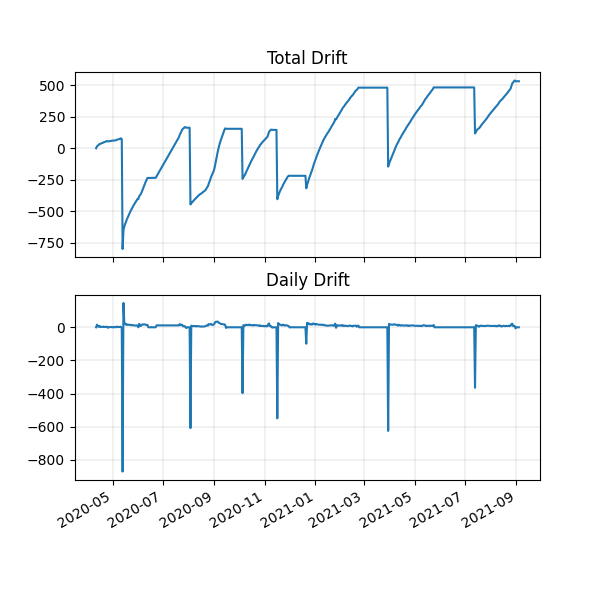
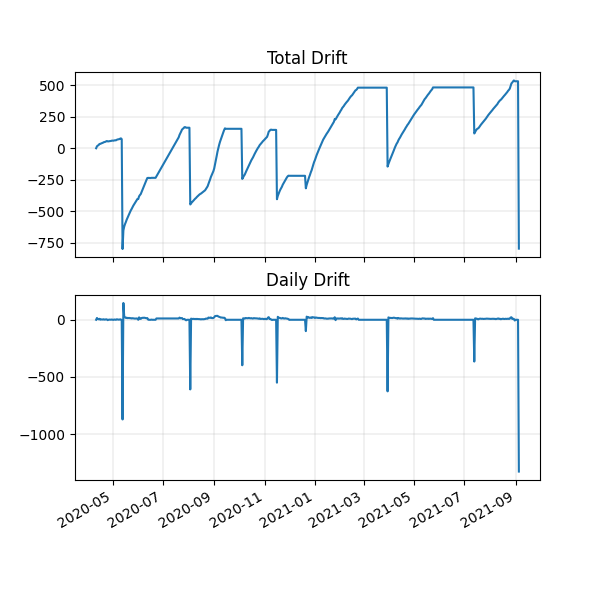
Sun Sep  5 15:30:45 EDT 2021

diff --git a/README.md b/README.md
@@ -1,9 +1,12 @@
 # MMR Drift Status
 
-**Last Updated (UTC):** 2021-09-04 21:15:38.171633
+**Last Updated (UTC):** 2021-09-05 19:30:44.712935
 # All Time
 ![Figure 1](/images/all-time_MMMM.png)
 ![Figure 2](/images/all-time_CHANGE.png)
+# Season 9
+![Figure 1](/images/season-9_MMMM.png)
+![Figure 2](/images/season-9_CHANGE.png)
 # Season 8
 ![Figure 1](/images/season-8_MMMM.png)
 ![Figure 2](/images/season-8_CHANGE.png)
@@ -30,6 +33,7 @@
 ![Figure 2](/images/season-1_CHANGE.png)
 |date| min| max| mean| drift_daily| drift_total| median| stdev|
 |:---|:---|:---|:---|:---|:---|:---|:--- |
+|05-Sep-2021| 2025| 2419| 2198.6| -1327.4| -796.0| 2204.5| 123.7|
 |04-Sep-2021| 3429| 3808| 3526.0| 0.0| 531.4| 3509.0| 75.1|
 |03-Sep-2021| 3429| 3808| 3526.0| 0.0| 531.4| 3509.0| 75.1|
 |02-Sep-2021| 3429| 3808| 3526.0| 0.0| 531.4| 3509.0| 75.1|
